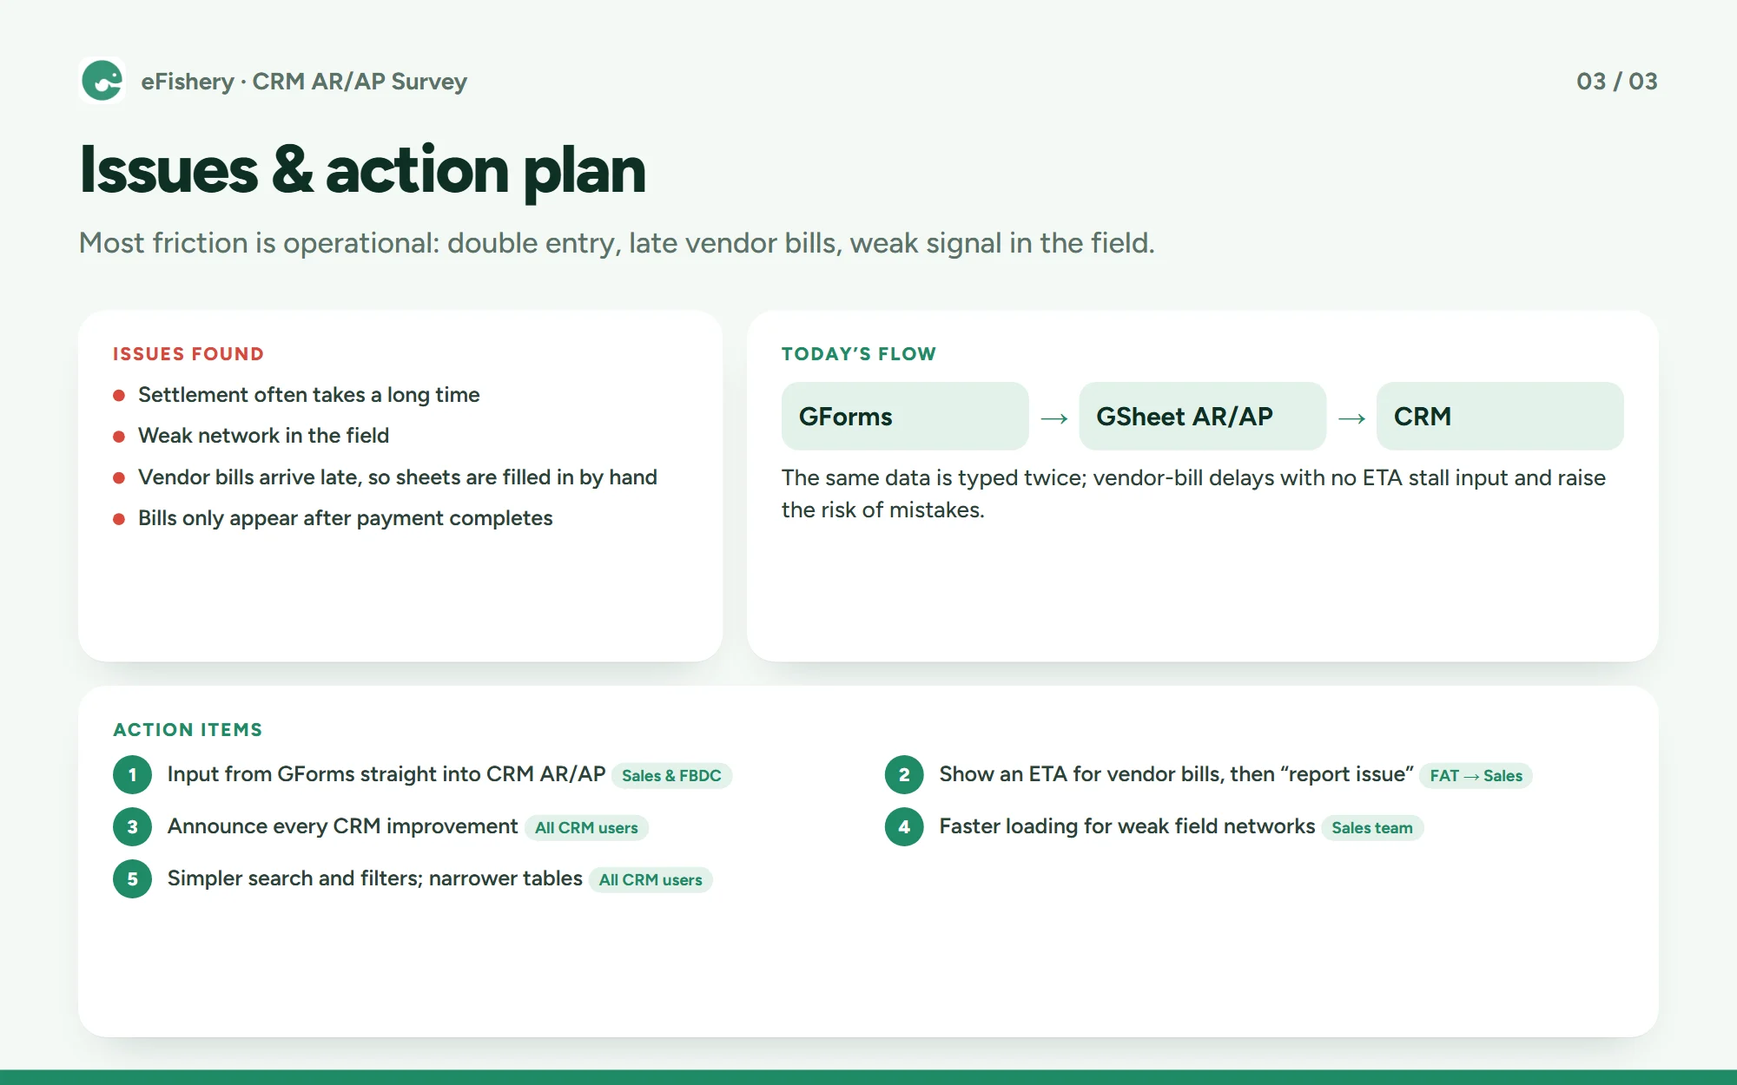
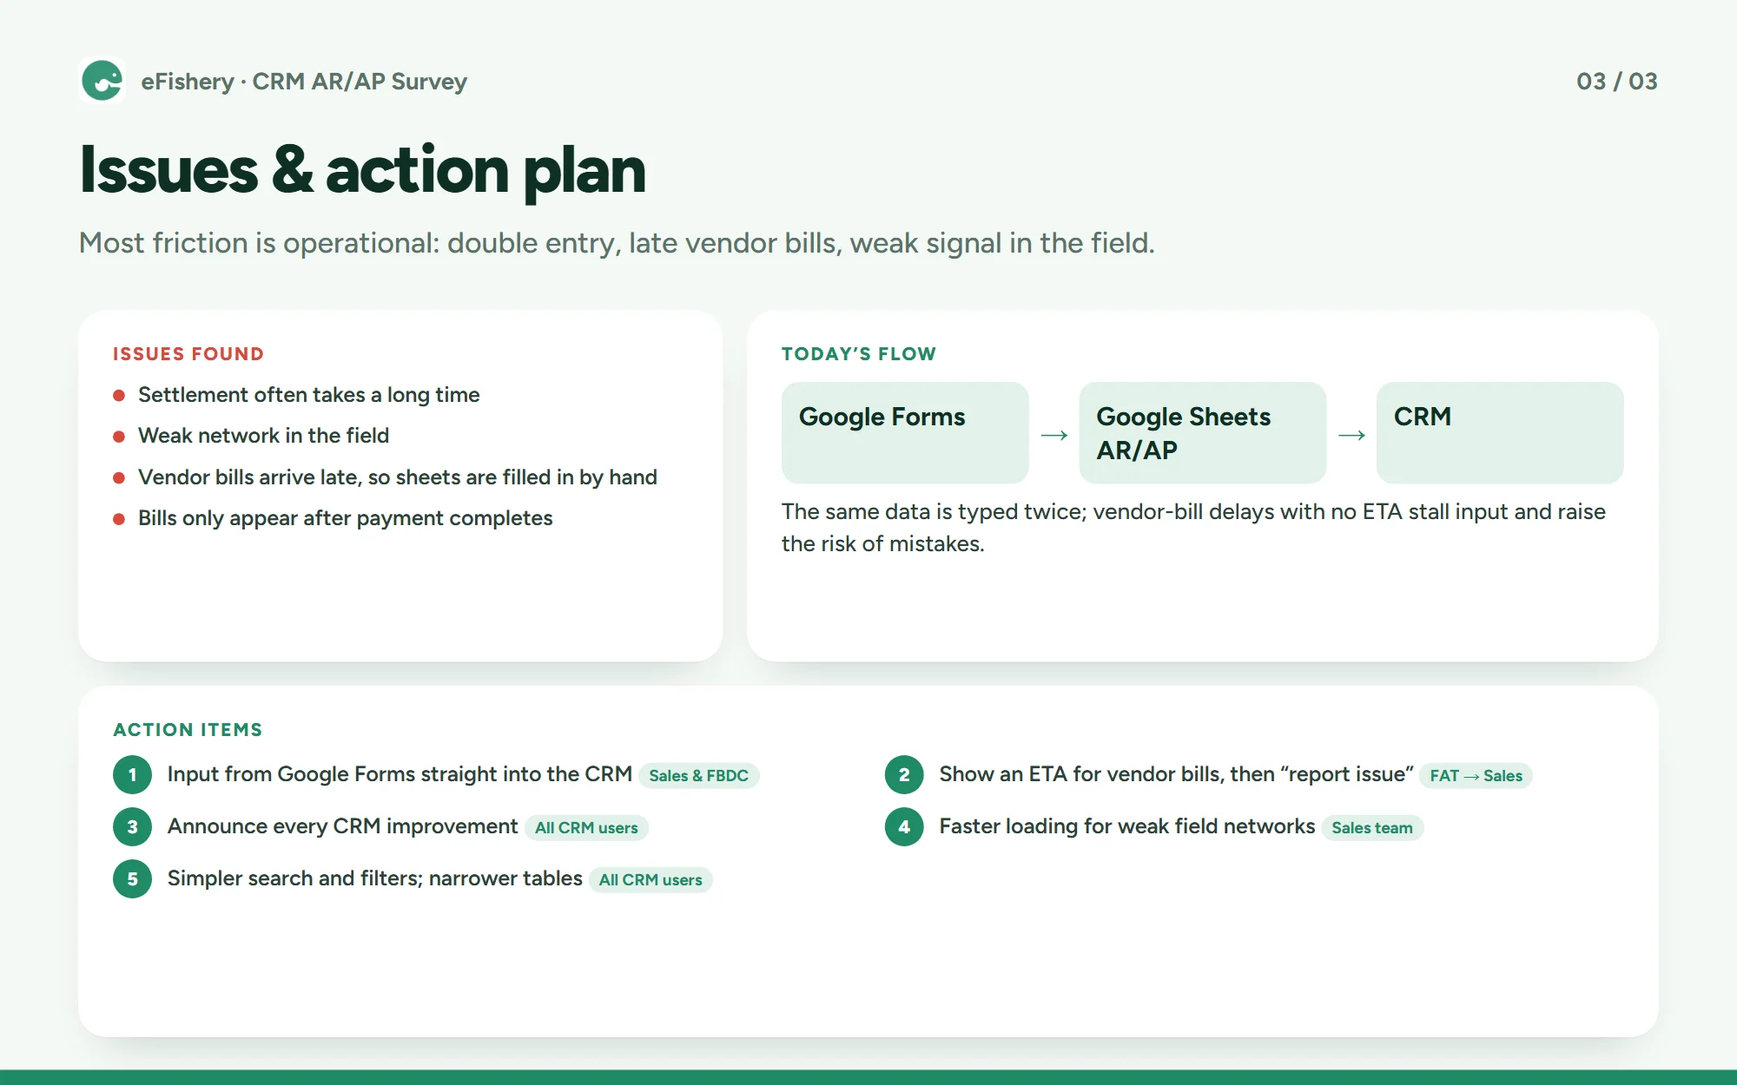
feat: update a copy and resume

Changed region(s): [[0.434, 0.3744, 0.961, 0.5304], [0.155, 0.6864, 0.434, 0.7488], [0.589, 0.3744, 0.62, 0.4056]]

diff --git a/src/lib/data/profile.ts b/src/lib/data/profile.ts
@@ -20,11 +20,11 @@ export const profile: Profile = {
 	nickname: 'Hans',
 	headline: 'Product designer who turns interaction design into code.',
 	summary: [
-		'I’m Farhan Ikhsan (Hans), a product designer based in Bogor, Indonesia, and open to working from anywhere. Over the past 9+ years I’ve led design in fintech, aquaculture and retail at Warung Pintar, Fazz, eFishery and now Nikel, where I built design systems like Renceng, replaced manual processes with internal tools, and grew a design team from zero to more than twelve designers. These days I ship prototypes straight into the repo with Claude, so handoff takes hours instead of days, and I run Twonity, a small design and development studio, on the side.'
+		'I’m Farhan Ikhsan (Hans), a product designer based in Bogor, Indonesia, and open to working from anywhere. Over the past 9+ years I’ve led design in retail, fintech and aquaculture at Warung Pintar, Fazz, eFishery and now Nikel. Along the way I’ve built design systems such as Renceng, replaced manual processes with internal tools, and grown a design team from zero to more than twelve designers. These days I use AI tools to ship prototypes straight into the repo, so handoff takes hours instead of days, and I run Twonity, a small design and development studio, on the side.'
 	],
 	portrait: '/images/profile/portrait.webp',
 	portraitCutout: '/images/profile/portrait-cutout.webp',
-	cv: 'https://drive.google.com/file/d/1H7J3coTxXee_YdkYYTEZjJE-pHU-esPS/view?usp=sharing',
+	cv: 'https://drive.google.com/file/d/1TzTitPqrE28xl__0q5sH_yt5omj5WM5L/view?usp=sharing',
 	facts: [
 		{ icon: 'pin', label: 'Based in', value: 'Bogor, Indonesia' },
 		{ icon: 'clock', label: 'Experience', value: '9+ years' },
@@ -40,7 +40,7 @@ export const profile: Profile = {
 			type: 'Full-time',
 			scope: 'Leading design across the LMS, Borrower Portal and Lender Portal',
 			summary:
-				'Shipping design systems and prototypes straight into the repo with Claude, giving stakeholders an early view of design intent.',
+				'Shipping design systems and prototypes straight into the repo with AI tools, giving stakeholders an early view of design intent.',
 			highlights: [
 				'Cut design handoff from days to hours',
 				'Replaced manual review with back-office tooling for 30+ ops staff',
@@ -146,7 +146,7 @@ export const profile: Profile = {
 		{
 			kind: 'milestone',
 			title: 'One loop from design to code',
-			summary: 'Figma, Claude Design, Git and Figma Make.',
+			summary: 'Figma, Figma Make, Git and AI tools.',
 			from: 'Nikel',
 			logos: [companies.nikel.logo],
 			year: 'Since 2025',
@@ -243,12 +243,12 @@ export const profile: Profile = {
 			role: 'Design Manager',
 			company: companies.fazz,
 			avatar: '/images/people/tewi-bowo.webp',
-			highlight: 'Farhan is a critical thinker product designer.',
+			highlight: 'Farhan is a critical-thinking product designer.',
 			headline: 'Leadership, People Manager, Product Management, Product Design',
 			relation: 'Direct manager',
 			date: 'Mar 2023',
 			quote:
-				'Farhan is a critical thinker product designer. Having this special trait made him able to approach complex problems with a thoughtful and analytical mindset that has been invaluable to our team. Farhan consistently demonstrates a deep understanding of user needs and works tirelessly to ensure that the product delivers the highest quality work.'
+				'Farhan is a critical-thinking product designer. This trait lets him approach complex problems with a thoughtful, analytical mindset that has been invaluable to our team. He consistently shows a deep understanding of user needs and works tirelessly to make sure the product is of the highest quality.'
 		},
 		{
 			name: 'Apolos Avrialdo',
@@ -268,24 +268,24 @@ export const profile: Profile = {
 			role: 'Associate PM',
 			company: companies.warungPintar,
 			avatar: '/images/people/faiz-anggoro-mukti.webp',
-			highlight: 'Always thinking about the user when giving a solution.',
+			highlight: 'Always thinking about the user when proposing a solution.',
 			headline: 'Assistant Manager at Central Bank of Indonesia',
 			relation: 'Same team',
 			date: 'Aug 2022',
 			quote:
-				'I worked with Farhan during my tenure as Associate Product Manager at Warung Pintar. Immediately what shine through is his quality as a human being. As He joined before me, he helped me settle in the team and the company. He also has determination to better himself through continuous learning from peers and superiors. He also strikes me as a customer driven person, always thinking about the user when giving a solution. This is shown by his willingness and ability to always do user research before designing a solution.'
+				'I worked with Farhan during my tenure as Associate Product Manager at Warung Pintar. What immediately shines through is his quality as a human being. As he joined before me, he helped me settle into the team and the company. He also has the determination to better himself through continuous learning from peers and superiors. He strikes me as a customer-driven person, always thinking about the user when proposing a solution. This shows in his willingness and ability to always do user research before designing a solution.'
 		},
 		{
 			name: 'Mahira Falevy',
 			role: 'UI/UX Designer',
 			company: companies.fazz,
 			avatar: '/images/people/mahira-falevy.webp',
-			highlight: 'Having Hans in a team is definitely a blessing.',
+			highlight: 'Having Hans on a team is definitely a blessing.',
 			headline: 'UI/UX Designer at Shopee · Master of Interaction Design at USYD',
 			relation: 'Same team',
 			date: 'Aug 2022',
 			quote:
-				'Hans was a good UI Designer to work with. We collaborated together in warung tools domain and he also give a lot of recommendation and feedback in the ux design process. Not limited to that, he came up with a lot of initiatives that helps us grow as a team. He also likes to share his experience and knowledge which is really helpful and inspiring. Having Hans in a team is definitely a blessing. I truly believe that Hans will excel in any job he gets!'
+				'Hans was a great UI designer to work with. We collaborated in the Warung Tools domain, and he gave a lot of recommendations and feedback during the UX design process. Beyond that, he came up with many initiatives that helped us grow as a team. He also likes to share his experience and knowledge, which is really helpful and inspiring. Having Hans on a team is definitely a blessing. I truly believe Hans will excel in any job he takes on!'
 		},
 		{
 			name: 'Arief Naufal Pramudito',
@@ -298,7 +298,7 @@ export const profile: Profile = {
 			relation: 'Different team',
 			date: 'Nov 2021',
 			quote:
-				'One of our first Interaction Designers, Hans knows all about Warung Pintar’s products, and has worked on almost every aspect of our product offering. He’s an eager, fast learner, and he’s not afraid to do activities that would fall outside of traditional design work - he and his team spent weeks in East Java to immerse themselves while incubating a new line of business, for which Hans went on to design the app. He’s a native of the Jakarta IXD community, and he knows what it’s like to be a designer at a startup going through its growing pains - which speaks to his mental fortitude.'
+				'One of our first Interaction Designers, Hans knows all about Warung Pintar’s products, and has worked on almost every aspect of our product offering. He’s an eager, fast learner, and he’s not afraid to do activities that would fall outside of traditional design work: he and his team spent weeks in East Java to immerse themselves while incubating a new line of business, for which Hans went on to design the app. He’s a native of the Jakarta IXD community, and he knows what it’s like to be a designer at a startup going through its growing pains, which speaks to his mental fortitude.'
 		},
 		{
 			name: 'Nabilah B Gelshirani',
@@ -310,7 +310,7 @@ export const profile: Profile = {
 			relation: 'Same team',
 			date: 'Aug 2021',
 			quote:
-				'I have worked with Hans for more than a year in the same squad. He is always passionate about everything that he designs. By working on the same project with him, I can see that he has outstanding knowledge in the multi-area of tech. Although his focus is on design, he is not hesitant to explore other things. Furthermore, he also often delivers superb performance.'
+				'I have worked with Hans for more than a year in the same squad. He is always passionate about everything that he designs. Working on the same projects with him, I could see his outstanding knowledge across many areas of tech. Although his focus is design, he never hesitates to explore other things, and he consistently delivers superb work.'
 		}
 	],
 	// Shown as a bento grid; each skill has a small drawing (`art`) made in CSS.
@@ -324,7 +324,7 @@ export const profile: Profile = {
 		{
 			name: 'AI-Assisted Design',
 			group: 'Design & Research',
-			proof: 'GPT, Gemini, Paper and Claude across research, design and code',
+			proof: 'GPT, Gemini and Paper across research, design and code',
 			art: 'flow'
 		},
 		{
@@ -369,7 +369,6 @@ export const profile: Profile = {
 		{ name: 'Paper', category: 'Design' },
 		{ name: 'Webflow', brand: 'webflow', category: 'Design' },
 		{ name: 'Adobe', brand: 'adobe', category: 'Design' },
-		{ name: 'Claude', brand: 'claude', category: 'AI' },
 		{ name: 'GPT', brand: 'openai', category: 'AI' },
 		{ name: 'Replit', brand: 'replit', category: 'AI' },
 		{ name: 'React', brand: 'react', category: 'Code' },

diff --git a/src/lib/data/case-studies.ts b/src/lib/data/case-studies.ts
@@ -64,7 +64,7 @@ export const caseStudies: Project[] = [
 				title: 'The story',
 				body: [
 					'Lending runs on trust. A lender has to trust a number before moving money, a borrower has to trust that the cost they see is the cost they pay, and an analyst has to trust that every transfer landed.',
-					'At KlikA2C, Nikel’s peer-to-peer lending marketplace, those three people worked in three portals that each told a loan’s story differently. Lenders fund invoice, PO, employee and earned-wage (EWA) loans; borrowers apply for them; and an operations team checks, approves and moves the money in between.',
+					'At KlikA2C, Nikel’s peer-to-peer lending marketplace, those three people worked in three portals that each told a loan’s story differently. Lenders fund invoice, PO, employee and earned wage access (EWA) loans; borrowers apply for them; and an operations team checks, approves and moves the money in between.',
 					'I set out to design one product instead of three: one loan lifecycle, one design system and one language for money, so the same loan reads the same way from every side.'
 				]
 			},
@@ -110,11 +110,11 @@ export const caseStudies: Project[] = [
 						chapters: [
 							{ at: 0, label: 'Sign in, then choose a product: EWA, Employee Loan, Invoice or PO' },
 							{ at: 3.6, label: 'Verify with NIK or NIP' },
-							{ at: 5.2, label: 'Employer data prefills and locks the account' },
+							{ at: 5.2, label: 'Employer data prefills the account and locks key fields' },
 							{ at: 9.1, label: 'Home: remaining limit by product and payroll deductions' },
 							{ at: 13.7, label: 'Apply: pick a product and see what documents it needs' },
 							{ at: 15.7, label: 'Set the amount and tenor' },
-							{ at: 18.6, label: 'Simulation: the full cost before any document' },
+							{ at: 18.6, label: 'Simulation: the full cost before any documents' },
 							{ at: 24.1, label: 'Loan detail: schedule and activity timeline' },
 							{ at: 29, label: 'Settings: bank accounts for disbursement' }
 						],
@@ -348,12 +348,12 @@ export const caseStudies: Project[] = [
 		title: 'Lender Portal Enhancement',
 		tagline: 'A clearer view of every lender decision.',
 		summary:
-			'Reworking Nikel’s Klik A2C lender portal around the questions investors need to answer: what is available, how their funds are performing, where money is allocated, and what changed in their wallet.',
+			'Reworking Nikel’s KlikA2C lender portal around the questions investors need to answer: what is available, how their funds are performing, where money is allocated, and what changed in their wallet.',
 		client: companies.nikel,
 		role: 'UX Designer',
 		year: 2026,
 		facts: [
-			{ label: 'Product', value: 'Klik A2C · Lender Portal' },
+			{ label: 'Product', value: 'KlikA2C · Lender Portal' },
 			{ label: 'Scope', value: 'Home, Portfolio, Mutation, loan & borrower detail' }
 		],
 		tools: [],
@@ -365,8 +365,8 @@ export const caseStudies: Project[] = [
 				id: 'overview',
 				title: 'Overview',
 				body: [
-					'The lender portal put performance data, wallet balance and loan information in front of people funding loans through Klik A2C. The source deck describes a dashboard crowded with metrics and charts that could appear empty when a data source did not have the required information.',
-					'The enhancement reframes the portal around four connected tasks: check available balance, assess returns, understand loan allocation, and reconcile wallet movement. The project deck is dated 29 May 2026.'
+					'The lender portal puts performance data, wallet balance and loan information in front of people funding loans through KlikA2C. The previous dashboard was crowded with metrics, and its charts could appear empty when a data source lacked the required information.',
+					'The enhancement reframes the portal around four connected tasks: check available balance, assess returns, understand loan allocation, and reconcile wallet movement.'
 				]
 			},
 			{
@@ -406,7 +406,7 @@ export const caseStudies: Project[] = [
 				id: 'screens',
 				title: 'The portal in use',
 				caption:
-					'Five real screens from the product deck show the full path: review balance, browse available loans, track funded loans by status and follow wallet activity.',
+					'Five screens show the full path: review your balance, browse available loans, track funded loans by status and follow wallet activity.',
 				layout: 'wide',
 				images: [
 					nikelPortal('home-dashboard.png', 'Lender home dashboard with available balance, funding summary and loan list'),
@@ -423,10 +423,10 @@ export const caseStudies: Project[] = [
 				items: [
 					{
 						title: 'Audit the current experience',
-						body: 'Use the deck’s pain-point review to identify metric noise, missing data and places where a chart did not help a lender act.'
+						body: 'Review the pain points to find metric noise, missing data and places where a chart did not help a lender act.'
 					},
 					{
-						title: 'Prioritize decisions',
+						title: 'Prioritise decisions',
 						body: 'Organise the home view around available balance, active funding and returns; keep allocation and reconciliation details in their natural next step.'
 					},
 					{
@@ -435,7 +435,7 @@ export const caseStudies: Project[] = [
 					},
 					{
 						title: 'Carry feedback into the next iteration',
-						body: 'The deck closes by identifying loan and borrower detail as the next area to streamline.'
+						body: 'Loan and borrower detail were identified as the next area to streamline.'
 					}
 				]
 			},
@@ -456,7 +456,7 @@ export const caseStudies: Project[] = [
 				id: 'metric-model',
 				title: 'A shared language for money',
 				caption:
-					'Metric definitions from the appendix: available balance is real-time; returns are all-time; wallet credits and debits are month-to-date.',
+					'Metric definitions: available balance is real-time, returns are all-time, and wallet credits and debits are month-to-date.',
 				layout: 'wide',
 				images: [
 					nikelPortal('metric-model.svg', 'Metric model distinguishing real-time balance, all-time returns, loan status and month-to-date movements')
@@ -467,7 +467,7 @@ export const caseStudies: Project[] = [
 				id: 'next-iteration',
 				title: 'Next iteration',
 				body: [
-					'The product deck identifies loan and borrower detail as the next opportunity: streamline the data so lenders can find the information they need without adding more noise.'
+					'Loan and borrower detail are the next opportunity: streamlining the data so lenders find what they need without adding more noise.'
 				]
 			}
 		],
@@ -1184,7 +1184,7 @@ export const caseStudies: Project[] = [
 			{
 				kind: 'gallery',
 				id: 'partnership',
-				title: 'Logistic partnership',
+				title: 'Logistics partnership',
 				caption:
 					'Retailers keep ordering from their wholesaler; Warung Pintar restocks the wholesaler and delivers for them. Rolled out in stages, with a lead funnel growing from 21 to 37.',
 				layout: 'wide',
@@ -1500,7 +1500,7 @@ export const caseStudies: Project[] = [
 				id: 'participants',
 				title: 'Who we talked to',
 				caption:
-					'Seven agents, anonymised, with their first months on Fazz Agen: from Rp 4.2 jt to Rp 172.3 jt GMV.',
+					'Seven agents, anonymised, with their first months on Fazz Agen: from Rp 4.2 million to Rp 172.3 million in GMV.',
 				layout: 'wide',
 				images: [loyal('participants', 'Method, rationale and seven anonymised agent cards')]
 			},
@@ -1816,7 +1816,7 @@ export const caseStudies: Project[] = [
 				id: 'archetypes',
 				title: 'Half-hearted acceptance',
 				caption:
-					'Most farmers accepted with help from the field team but stayed skeptical. Three archetypes explain why, through motivation, ability and opportunity.',
+					'Most farmers accepted with help from the field team but stayed sceptical. Three archetypes explain why, through motivation, ability and opportunity.',
 				layout: 'wide',
 				images: [
 					saldo('archetypes', 'Resist-to-accept scale, three archetypes and their mental model')
@@ -1981,7 +1981,7 @@ export const caseStudies: Project[] = [
 				id: 'overview',
 				title: 'Overview',
 				body: [
-					'Payments started as field staff posting receipt photos in Slack for finance to key into Odoo. As transactions grew, finance hit its limits: payments arrived around the clock, about 200 records a day per business unit came in manually, and treasury reconciled ~18 bank accounts in spreadsheets.',
+					'Payments started as field staff posting receipt photos in Slack for finance to key into Odoo. As transactions grew, finance hit its limits: payments arrived around the clock, about 200 records a day per business unit came in manually, and treasury reconciled about 18 bank accounts in spreadsheets.',
 					'The team built finance services and payment services together, with each step replacing a manual one.'
 				]
 			},
@@ -2102,7 +2102,7 @@ export const caseStudies: Project[] = [
 				id: 'actions',
 				title: 'Issues & action plan',
 				caption:
-					'Double entry from GForms to GSheet to CRM, late vendor bills and weak field networks, turned into five action items with owners.',
+					'Double entry from Google Forms to Google Sheets to the CRM, late vendor bills and weak field networks, turned into five action items with owners.',
 				layout: 'wide',
 				images: [arap('actions', 'Issues, the current input flow and five action items')]
 			}

diff --git a/src/routes/about/+page.svelte b/src/routes/about/+page.svelte
@@ -238,7 +238,9 @@
 	<aside class="rail">
 		<TableOfContents items={toc}>
 			{#snippet footer()}
-				<a class="cv" href={profile.cv}><Icon name="download" size={13} /> Download CV</a>
+				<a class="cv" href={profile.cv} target="_blank" rel="noopener"
+					><Icon name="download" size={13} /> Download resume</a
+				>
 			{/snippet}
 		</TableOfContents>
 	</aside>
@@ -285,7 +287,7 @@
 
 				<div class="actions">
 					<a class="primary" href={profile.cv} target="_blank" rel="noopener"
-						><span class="p-icon"><Icon name="download" size={16} /></span> Download CV</a
+						><span class="p-icon"><Icon name="download" size={16} /></span> Download resume</a
 					>
 					<a class="secondary" href="/#contact">Get in touch <Icon name="arrowRight" size={14} /></a
 					>
@@ -473,7 +475,7 @@
 					<span class="hub">AI</span>
 					<span class="tools-r">
 						<span class="t"><span class="ai-mono">Pa</span></span>
-						<span class="t"><Brand name="claude" size={14} /></span>
+						<span class="t"><Brand name="replit" size={14} /></span>
 					</span>
 					<span class="uses">
 						{#each ['Research', 'Design', 'Code'] as u (u)}<i>{u}</i>{/each}

diff --git a/src/lib/components/home/Contact.svelte b/src/lib/components/home/Contact.svelte
@@ -4,7 +4,7 @@
 	import { profile } from '#lib/data/profile.ts';
 	import { reveal } from '#lib/utils/reveal.ts';
 
-	const headline = "Let's make something good.";
+	const headline = "Let’s make something good.";
 	const SPACE = ' ';
 
 	let copied = $state(false);
@@ -60,13 +60,13 @@
 			href={profile.cv}
 			target="_blank"
 			rel="noopener"
-			aria-label="Download Hans Curriculum Vitae"
+			aria-label="Download Hans’s resume"
 		>
 			<span class="act-main">
 				<span class="act-icon"><Icon name="download" size={18} /></span>
 				<span class="act-text">
-					<span class="act-label">Or download Resume</span>
-					<span class="act-value">Get a resume</span>
+					<span class="act-label">Prefer a PDF?</span>
+					<span class="act-value">Download resume</span>
 				</span>
 			</span>
 			<span class="act-end" aria-hidden="true"><Icon name="arrowUpRight" size={16} /></span>

diff --git a/src/lib/components/layout/FloatingCta.svelte b/src/lib/components/layout/FloatingCta.svelte
@@ -9,7 +9,7 @@
 	 * it switches copy. Hovering speeds the ring up and holds the label. It steps aside once
 	 * the contact section is on screen.
 	 */
-	const lines = ['Hiring? Let’s talk', 'Get a resume', 'Open to full-time roles'];
+	const lines = ['Hiring? Let’s talk', 'Download resume', 'Open to full-time roles'];
 	const id = $props.id();
 
 	let index = $state(0);
@@ -44,7 +44,7 @@
 	class="cta"
 	{href}
 	class:away={atContact}
-	aria-label="Contact me or Get a resume"
+	aria-label="Contact me or download my resume"
 	onpointerenter={() => (paused = true)}
 	onpointerleave={() => (paused = false)}
 >
@@ -75,7 +75,7 @@
 			<g class="ring">
 				<text
 					><textPath href="#cta-ring-{id}" textLength="280"
-						>Hiring · Get a resume · Let’s talk ·
+						>Hiring · Download resume · Let’s talk ·
 					</textPath></text
 				>
 			</g>

diff --git a/src/lib/data/site.ts b/src/lib/data/site.ts
@@ -57,7 +57,6 @@ export const toolbox = [
 	'Paper',
 	'Webflow',
 	'Adobe',
-	'Claude',
 	'GPT',
 	'Replit',
 	'React',
